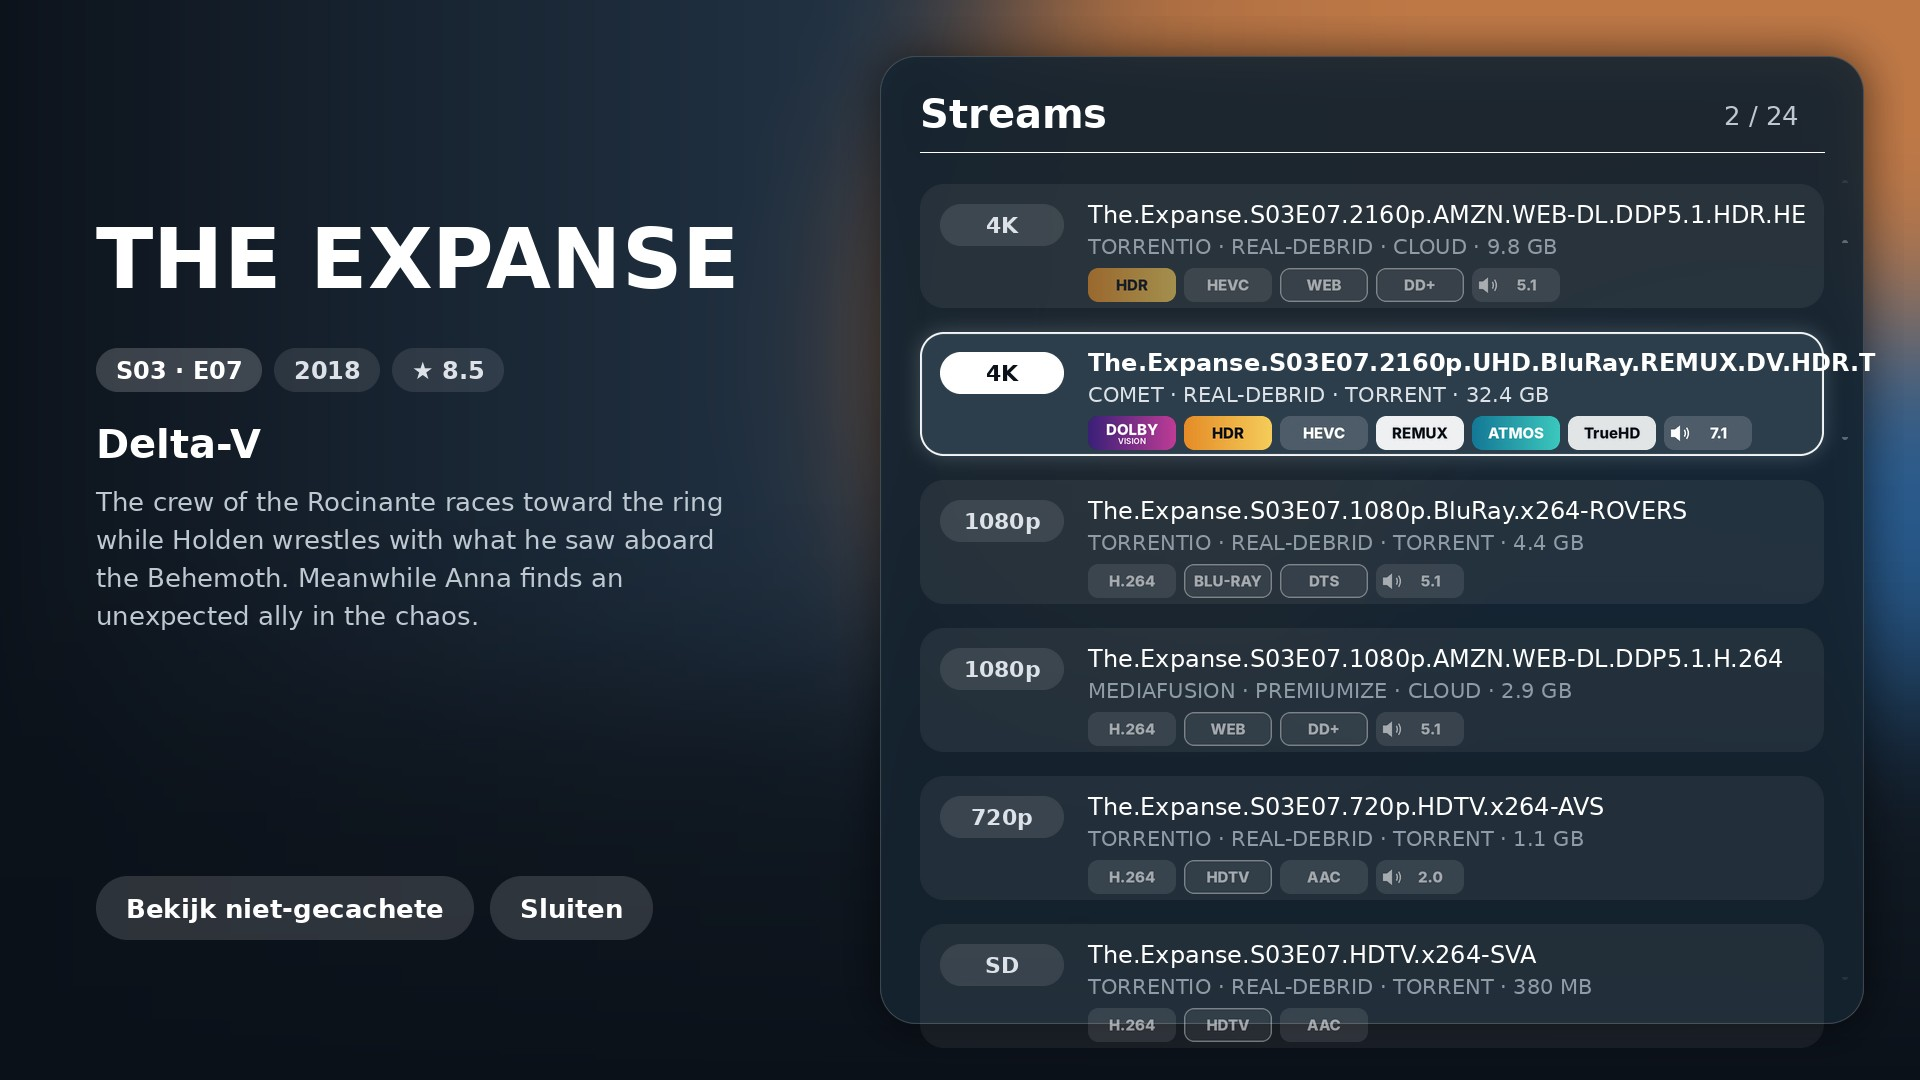
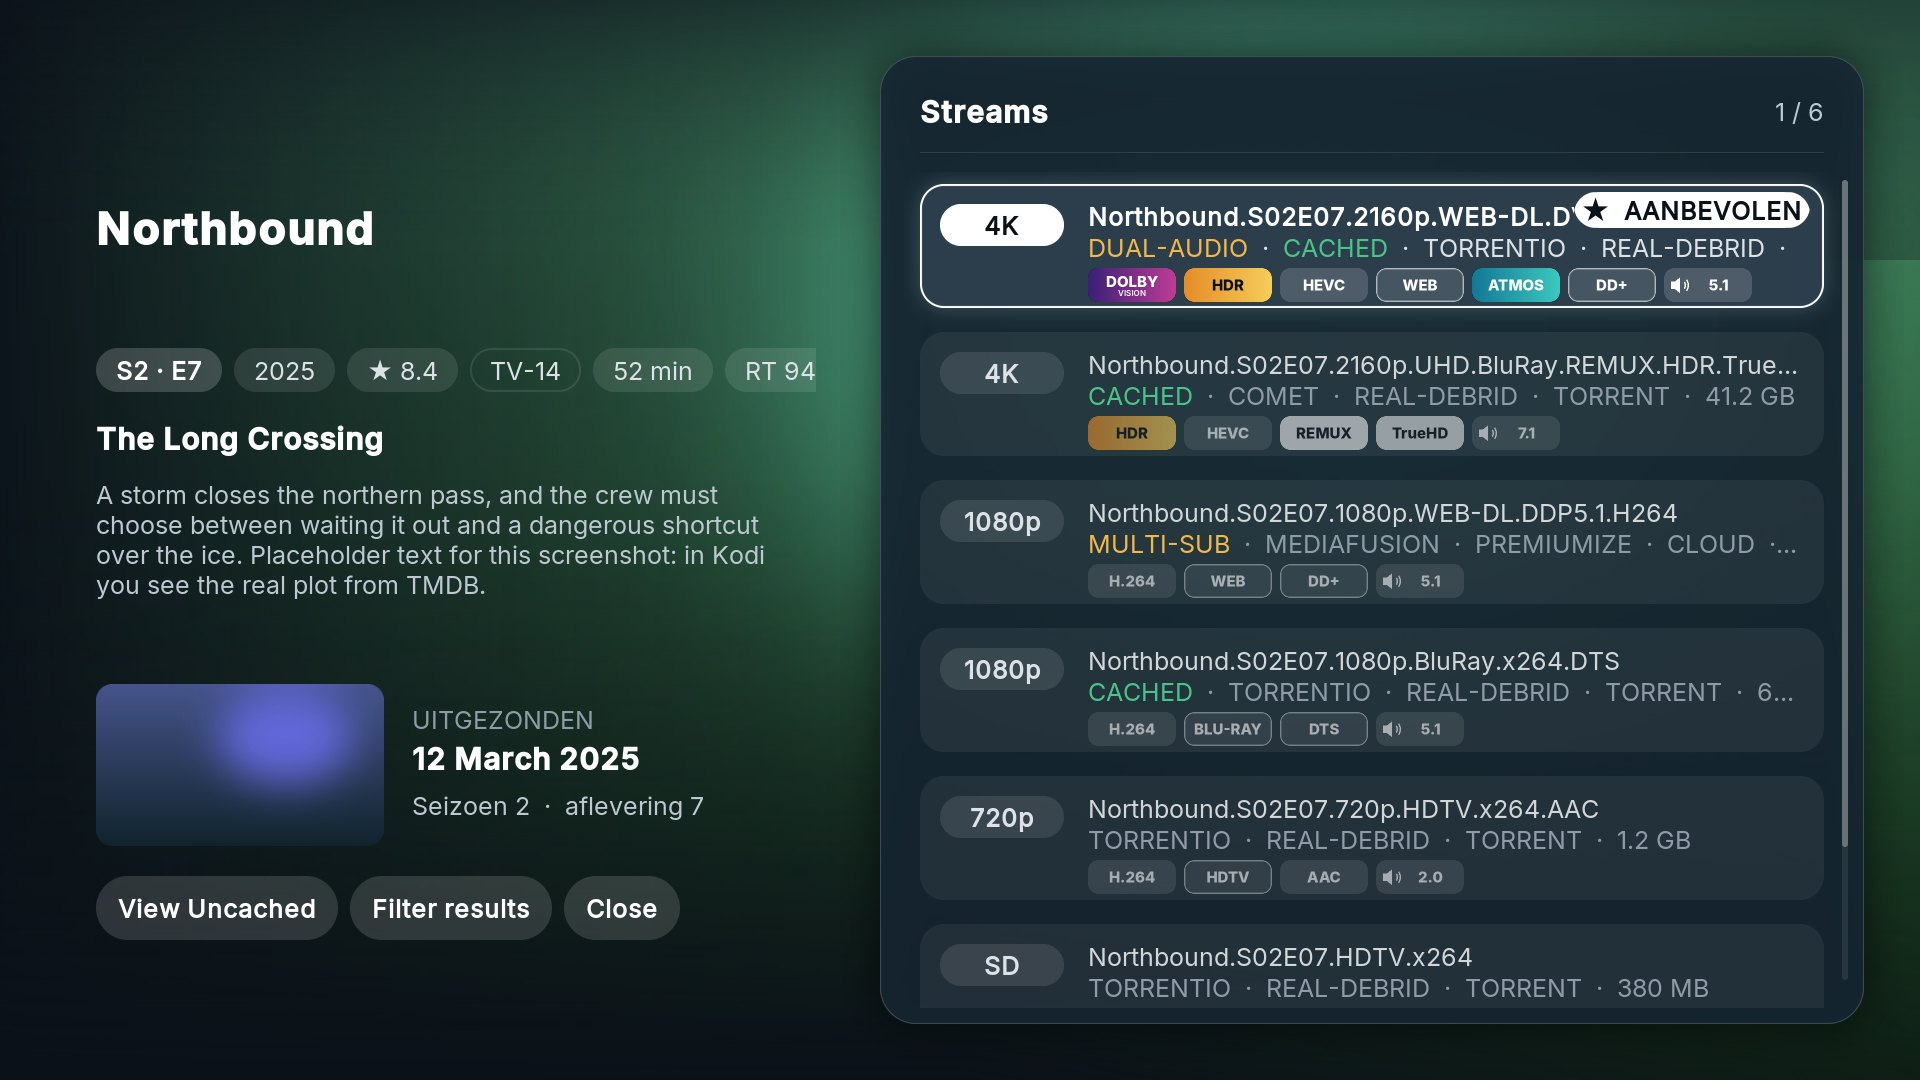
README: real Kodi screenshots of the 1.5.0 windows; fix stray [/B] in provider settings title
Claude-Session: https://claude.ai/code/session_013AfvwK9NqtE7ei35cRZkmt

diff --git a/README.md b/README.md
@@ -8,7 +8,7 @@
 
 ![Source select](screenshots/bronkeuze.jpg)
 
-> The images are previews with placeholder artwork. In Kodi you will see the real backdrop and logo of the movie or show.
+> Most images are screenshots of the theme running in a real Kodi, filled with placeholder titles and artwork. In Kodi you will see the real backdrop, logo and plot of the movie or show. The Resolving, Manual caching and Download Manager images are older previews.
 
 ---
 
@@ -39,14 +39,32 @@ The badges are original designs. They are not official Dolby or DTS logos.
 
 ## Screenshots
 
-**Scraping**
+**Source select** – an episode with its own picture and air date; the first stream is tagged *Recommended*, with CACHED and language tags
+![Source select](screenshots/bronkeuze.jpg)
+
+**Scraping** – counts per quality, the best result so far and the providers that are still busy
 ![Scraping](screenshots/streams-zoeken.jpg)
+
+**Filters**
+![Filters](screenshots/filters.jpg)
+
+**Sorting**
+![Sorting](screenshots/sorteren.jpg)
+
+**Provider packages**
+![Provider packages](screenshots/provider-pakketten.jpg)
+
+**Provider settings**
+![Provider settings](screenshots/provider-instellingen.jpg)
+
+**Playing next** – with the plot and running time of the next episode
+![Playing next](screenshots/volgende-aflevering.jpg)
+
+**Skip intro**
+![Skip intro](screenshots/intro-overslaan.jpg)
 
 **Resolving**
 ![Resolving](screenshots/stream-openen.jpg)
-
-**Playing next**
-![Playing next](screenshots/volgende-aflevering.jpg)
 
 **Manual caching**
 ![Manual caching](screenshots/handmatig-cachen.jpg)
